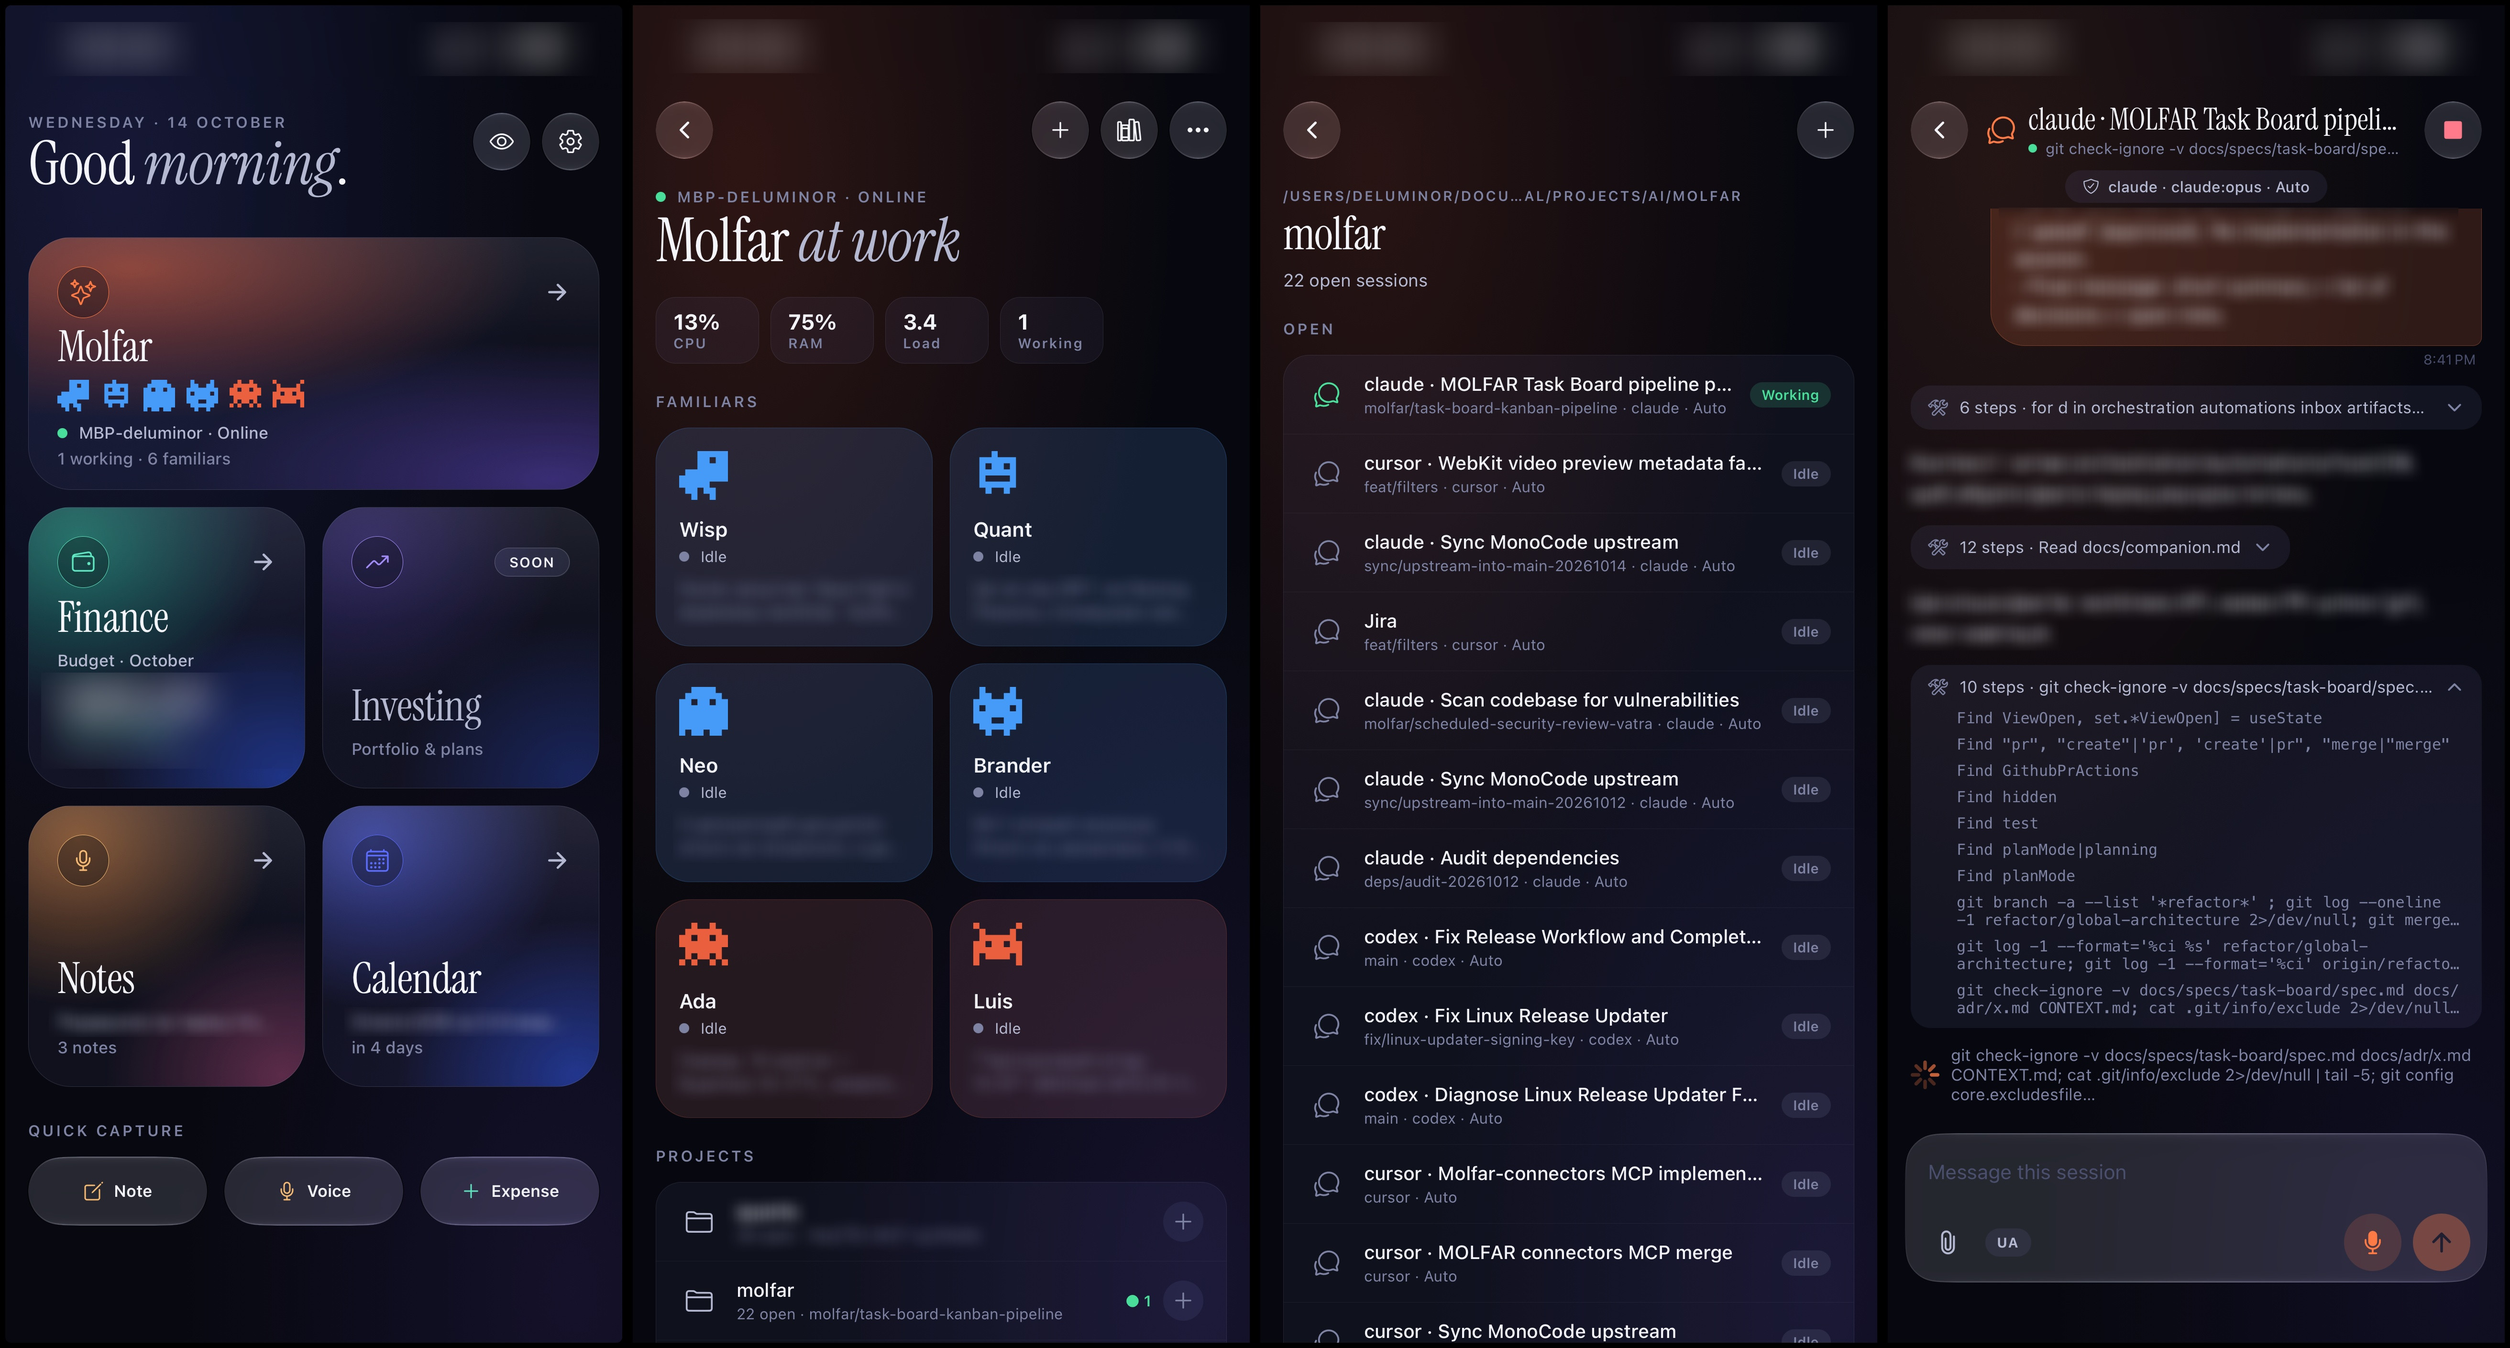
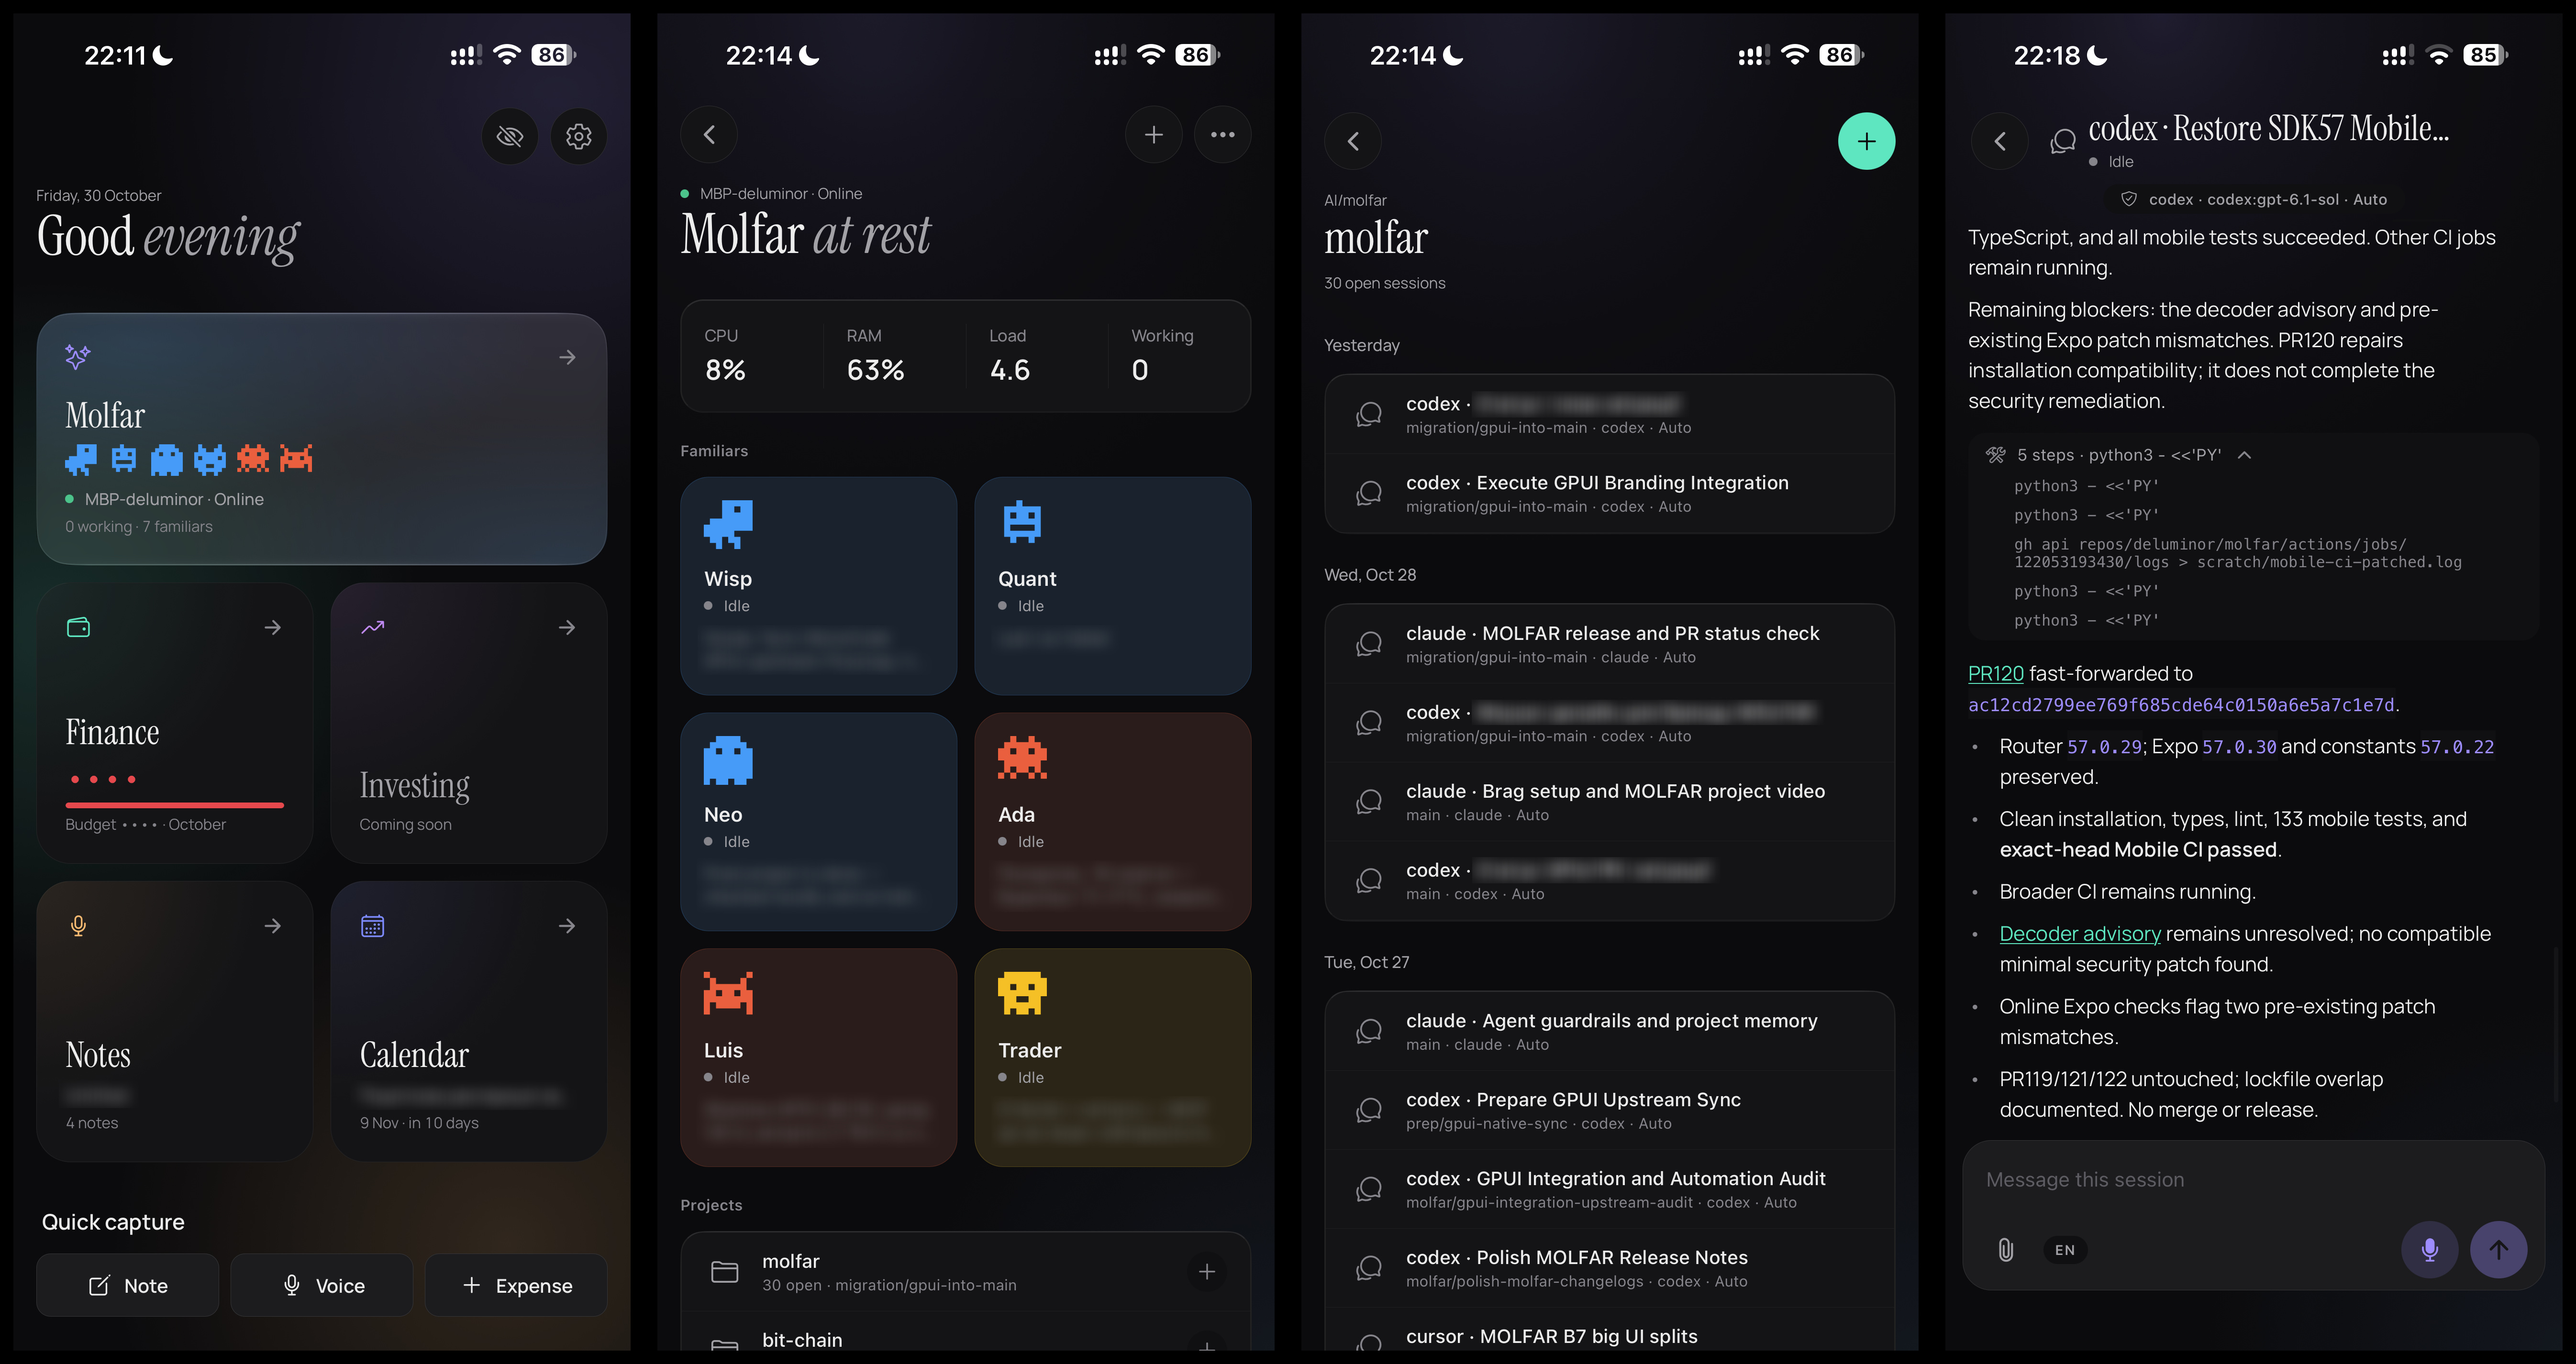
docs(readme): replace phone screenshot and drop iPad images
- Swap docs/architecture/images/phone.jpg for an updated companion screenshot
- Remove the two iPad companion screenshots from the Molfar section

diff --git a/README.md b/README.md
@@ -171,10 +171,6 @@ Pair a phone or tablet through the **Molfar** module in BitChain and steer the d
 
 ![Molfar companion on iPhone — overview with Familiars and host stats beside a session transcript with photo and dictation composer](docs/architecture/images/phone.jpg)
 
-![Molfar companion on iPad — laptop online, host metrics, Familiars, open sessions, and project rail](docs/architecture/images/ipad-blurred.png)
-
-![Molfar companion on iPad — laptop online, host metrics, Familiars, open sessions, and project rail](docs/architecture/images/ipad-blurred2.png)
-
 ### Orchestration and `/operator`
 
 - **Orchestration** lets a lead agent decompose a larger task into coordinated worker sessions, each in its own checkout.
